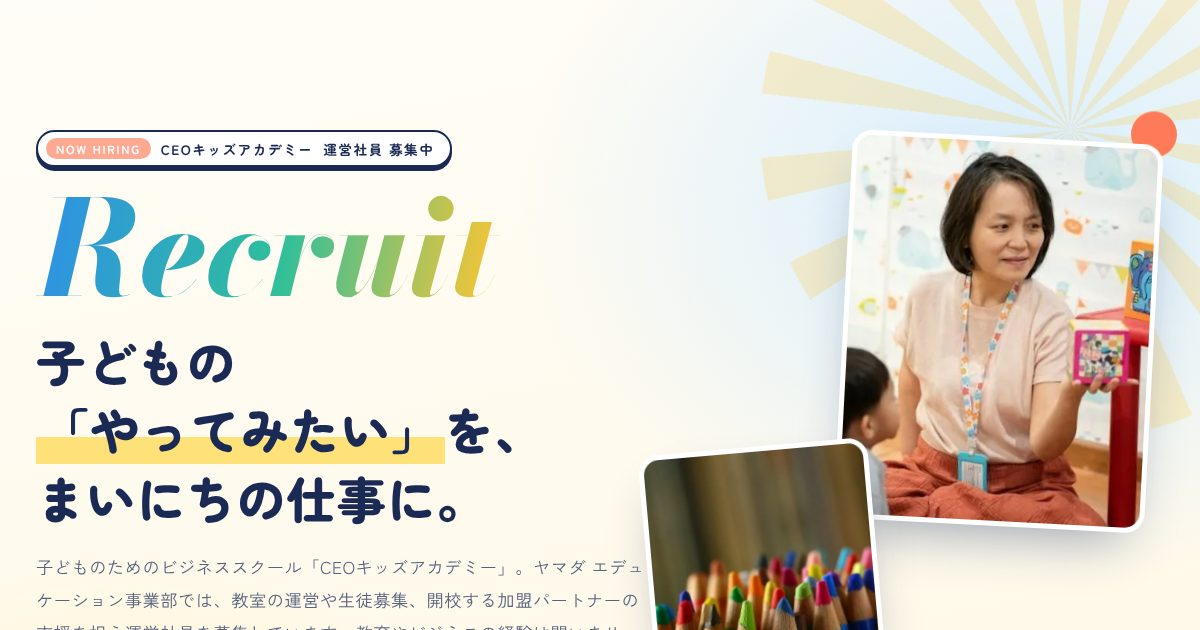
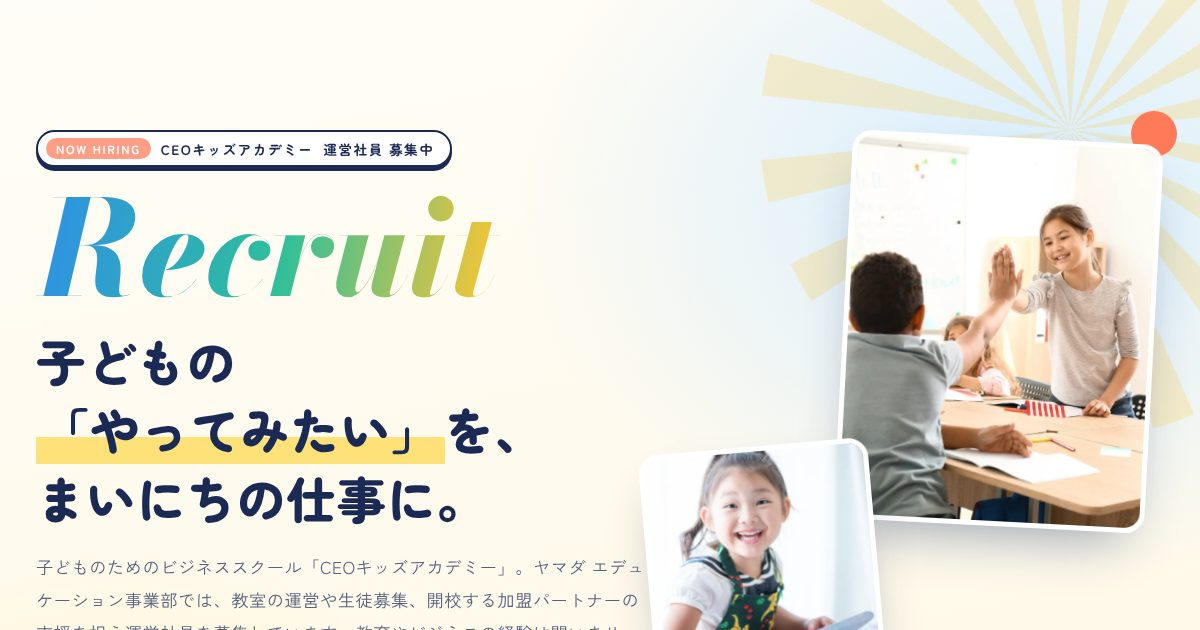
募集条件を反映、写真をCEOキッズ公式の写真に差し替え（重複なし）
- 雇用形態・月給25万〜50万円・勤務地阿佐ヶ谷・1日8時間＋固定残業月30時間・年間休日115日・社保・交通費・経験者優遇・試用期間3ヶ月
- JobPosting に給与・雇用形態・応募資格を追加
- 女性講師の写真を廃止し、採用ページ内で同じ写真を使わない配置に変更

Claude-Session: https://claude.ai/code/session_01Mt2r6HDPZRVGmky1JAwntv

Changed region(s): [[0.5242, 0.2111, 0.9867, 1.0]]

diff --git a/recruit/index.html b/recruit/index.html
@@ -201,15 +201,15 @@
         <a class="btn" href="#positions">募集職種を見る</a>
       </div>
       <ul class="tags" aria-label="募集している仕事">
-        <li>教室運営・講師</li><li>生徒募集・イベント</li><li>加盟校の開校サポート</li><li>事務局・保護者対応</li><li class="hot">未経験・子育て経験者歓迎</li>
+        <li>教室運営・講師</li><li>生徒募集・イベント</li><li>加盟校の開校サポート</li><li>事務局・保護者対応</li><li>月給25万〜50万円</li><li>年間休日115日</li><li class="hot">未経験・子育て経験者歓迎</li>
       </ul>
     </div>
   </div>
   <div class="hero-ph" aria-hidden="true">
     <span class="blob b1"></span><span class="blob b2"></span><span class="blob b3"></span>
-    <figure class="p1"><img src="../img/teacher.webp" alt="" fetchpriority="high"></figure>
-    <figure class="p2"><img src="../img/pencils.webp" alt=""></figure>
-    <figure class="p3"><img src="../img/study.webp" alt=""></figure>
+    <figure class="p1"><img src="../img/ck-classroom.webp" alt="" fetchpriority="high"></figure>
+    <figure class="p2"><img src="../img/ck-smile.webp" alt=""></figure>
+    <figure class="p3"><img src="../img/ck-chalk.webp" alt=""></figure>
   </div>
   <div class="marquee" aria-hidden="true"><div class="track">
     <span>WE ARE HIRING</span><span>教室運営</span><span>生徒募集</span><span>開校サポート</span><span>未経験から</span><span>WE ARE HIRING</span><span>教室運営</span><span>生徒募集</span><span>開校サポート</span><span>未経験から</span>
@@ -219,7 +219,7 @@
 <section class="sec" id="message"><span class="wm" aria-hidden="true">Message</span>
   <div class="wrap two">
     <div class="ph-stack rv">
-      <img src="../img/study.webp" alt="机に向かってノートに書き込む女の子" loading="lazy">
+      <img src="../img/ck-students.webp" alt="ボードゲームのような教材でビジネスを学ぶ学生たち" loading="lazy">
       <img src="../img/hero.webp" alt="コインの山から伸びる若芽" loading="lazy">
     </div>
     <div class="msg rv d1">
@@ -300,7 +300,7 @@
 <section class="sec skybg" id="day"><span class="wm r" aria-hidden="true">One day</span>
   <div class="wrap two rev">
     <div class="ph-one rv">
-      <img src="../img/teacher.webp" alt="子どもたちに教材を見せる女性の先生" loading="lazy">
+      <img src="../img/ck-staff.webp" alt="ノートパソコンで仕事をするスタッフ" loading="lazy">
       <p class="bubble">授業のあとの<br>「楽しかった！」が<br>いちばんのごほうび。</p>
     </div>
     <div class="rv d1">
@@ -313,7 +313,7 @@
         <li><time>15:30</time><div class="box"><b>授業</b><p>子どもたちが考えた商品やアイデアを全肯定で受け止めながら進行します。</p></div></li>
         <li><time>18:00</time><div class="box"><b>保護者対応・振り返り</b><p>お迎えの時間に今日の様子を伝え、日報で次回の改善点をまとめます。</p></div></li>
       </ol>
-      <p class="day-note">※ 時間は一例です。実際の勤務時間は <span class="ph">勤務時間を記入</span> です。</p>
+      <p class="day-note">※ 時間は一例です。勤務時間は1日8時間です。</p>
     </div>
   </div>
 </section>
@@ -332,8 +332,8 @@
       </ul>
     </div>
     <div class="ph-stack rv d1">
+      <img src="../img/ck-meeting.webp" alt="保護者と子どもと笑顔で話すスタッフ" loading="lazy">
       <img src="../img/pencils.webp" alt="色とりどりの色鉛筆" loading="lazy">
-      <img src="../img/teacher.webp" alt="子どもたちに教材を見せる女性の先生" loading="lazy">
     </div>
   </div>
 </section>
@@ -347,15 +347,15 @@
     </div>
     <dl class="terms rv">
       <dt>募集職種</dt><dd>教室運営・講師スタッフ／生徒募集・イベント企画／加盟パートナー開校サポート／事務局・オペレーション</dd>
-      <dt>雇用形態</dt><dd><span class="ph">正社員・契約社員・パート など</span></dd>
-      <dt>給与</dt><dd><span class="ph">月給 ○○万円〜○○万円（経験・能力を考慮）</span></dd>
-      <dt>勤務地</dt><dd><span class="ph">東京都杉並区阿佐谷南3-1-27 ほか教室</span></dd>
-      <dt>勤務時間</dt><dd><span class="ph">○:00〜○:00（休憩○分）／シフト制の有無</span></dd>
-      <dt>休日・休暇</dt><dd><span class="ph">週休○日・年間休日○日・有給休暇 など</span></dd>
-      <dt>待遇・福利厚生</dt><dd><span class="ph">社会保険完備・交通費支給・研修費会社負担 など</span></dd>
+      <dt>雇用形態</dt><dd>正社員・契約社員・アルバイト など</dd>
+      <dt>給与</dt><dd>月給 25万円〜50万円（経験・能力を考慮）</dd>
+      <dt>勤務地</dt><dd>阿佐ヶ谷（東京都杉並区）</dd>
+      <dt>勤務時間</dt><dd>1日8時間／固定残業制度あり（月30時間分・固定残業代 <span class="ph">○万円</span>）。30時間を超える残業代は別途支給します</dd>
+      <dt>休日・休暇</dt><dd>年間休日115日</dd>
+      <dt>待遇・福利厚生</dt><dd>社会保険完備・交通費支給</dd>
       <dt>研修</dt><dd>CEOキッズアカデミー本部の講師養成講座・模擬授業研修</dd>
-      <dt>応募資格</dt><dd>学歴・教育業界の経験は問いません。<span class="ph">必須条件（普通免許など）があれば記入</span></dd>
-      <dt>試用期間</dt><dd><span class="ph">○ヶ月（条件の変更有無）</span></dd>
+      <dt>応募資格</dt><dd>学歴・教育業界の経験は問いません。教室運営、カリキュラム制作などの経験者優遇</dd>
+      <dt>試用期間</dt><dd>3ヶ月</dd>
     </dl>
   </div>
 </section>

diff --git a/recruit/jobs/partner.html b/recruit/jobs/partner.html
@@ -49,6 +49,22 @@
  "industry": "教育",
  "occupationalCategory": "加盟パートナー開校サポート",
  "directApply": false,
+ "employmentType": [
+  "FULL_TIME",
+  "TEMPORARY",
+  "PART_TIME"
+ ],
+ "baseSalary": {
+  "@type": "MonetaryAmount",
+  "currency": "JPY",
+  "value": {
+   "@type": "QuantitativeValue",
+   "minValue": 250000,
+   "maxValue": 500000,
+   "unitText": "MONTH"
+  }
+ },
+ "qualifications": "学歴・教育業界の経験は問いません。教室運営、カリキュラム制作などの経験者優遇。",
  "url": "https://livmakers.github.io/yamada-edu-hp/recruit/jobs/partner.html"
 }
 </script>
@@ -102,7 +118,8 @@
       <dt>仕事内容</dt><dd><ul><li>加盟を検討する方からの問い合わせ対応と個別のご案内</li><li>開校までの準備（研修日程・教材・集客）の進行管理</li><li>開校後の定期面談、運営の相談窓口</li><li>各教室の好事例を集めて共有する仕組みづくり</li></ul></dd>
       <dt>あると活きる経験</dt><dd>フランチャイズ本部のSV、法人営業、店舗・教室の運営管理の経験</dd>
       <dt>向いている方</dt><dd><ul><li>相手の目標を自分ごととして応援できる方</li><li>段取りを組み、期限までに物事を進められる方</li><li>教室をひとつの事業として見られる方</li></ul></dd>
-      <dt>雇用形態</dt><dd><span class="ph">正社員・契約社員・パート など</span></dd><dt>給与</dt><dd><span class="ph">月給 ○○万円〜○○万円（経験・能力を考慮）</span></dd><dt>勤務地</dt><dd><span class="ph">東京都杉並区阿佐谷南3-1-27 ほか教室</span></dd><dt>勤務時間</dt><dd><span class="ph">○:00〜○:00（休憩○分）／シフト制の有無</span></dd><dt>休日・休暇</dt><dd><span class="ph">週休○日・年間休日○日・有給休暇 など</span></dd><dt>待遇・福利厚生</dt><dd><span class="ph">社会保険完備・交通費支給・研修費会社負担 など</span></dd><dt>研修</dt><dd>CEOキッズアカデミー本部の講師養成講座・模擬授業研修</dd><dt>試用期間</dt><dd><span class="ph">○ヶ月（条件の変更有無）</span></dd>
+      <dt>雇用形態</dt><dd>正社員・契約社員・アルバイト など</dd><dt>給与</dt><dd>月給 25万円〜50万円（経験・能力を考慮）</dd><dt>勤務地</dt><dd>阿佐ヶ谷（東京都杉並区）</dd><dt>勤務時間</dt><dd>1日8時間／固定残業制度あり（月30時間分・固定残業代 <span class="ph">○万円</span>）。30時間を超える残業代は別途支給します</dd><dt>休日・休暇</dt><dd>年間休日115日</dd><dt>待遇・福利厚生</dt><dd>社会保険完備・交通費支給</dd><dt>研修</dt><dd>CEOキッズアカデミー本部の講師養成講座・模擬授業研修</dd><dt>試用期間</dt><dd>3ヶ月</dd>
+      <dt>応募資格</dt><dd>学歴・教育業界の経験は問いません。教室運営、カリキュラム制作などの経験者優遇</dd>
     </dl></div></div>
     <p class="jcta"><a class="btn sun" href="../?job=partner#entry">この職種に応募する <span class="arw">→</span></a></p>
     <h2 class="jother">ほかの募集職種</h2>

diff --git a/recruit/jobs/marketing.html b/recruit/jobs/marketing.html
@@ -49,6 +49,22 @@
  "industry": "教育",
  "occupationalCategory": "生徒募集・イベント企画",
  "directApply": false,
+ "employmentType": [
+  "FULL_TIME",
+  "TEMPORARY",
+  "PART_TIME"
+ ],
+ "baseSalary": {
+  "@type": "MonetaryAmount",
+  "currency": "JPY",
+  "value": {
+   "@type": "QuantitativeValue",
+   "minValue": 250000,
+   "maxValue": 500000,
+   "unitText": "MONTH"
+  }
+ },
+ "qualifications": "学歴・教育業界の経験は問いません。教室運営、カリキュラム制作などの経験者優遇。",
  "url": "https://livmakers.github.io/yamada-edu-hp/recruit/jobs/marketing.html"
 }
 </script>
@@ -102,7 +118,8 @@
       <dt>仕事内容</dt><dd><ul><li>体験会・親子イベント・ワークショップの企画と集客</li><li>Instagram・LINEなどSNSの発信、チラシ・ポスターの制作手配</li><li>問い合わせから体験、入会までの数字の管理と改善</li><li>学校・企業・商業施設との連携イベントの調整</li></ul></dd>
       <dt>あると活きる経験</dt><dd>販促・広報・SNS運用、イベント運営、営業の経験</dd>
       <dt>向いている方</dt><dd><ul><li>数字を見て次の一手を考えるのが好きな方</li><li>企画を形にして、人を集めた経験がある方</li><li>地域の学校や企業とつながりをつくれる方</li></ul></dd>
-      <dt>雇用形態</dt><dd><span class="ph">正社員・契約社員・パート など</span></dd><dt>給与</dt><dd><span class="ph">月給 ○○万円〜○○万円（経験・能力を考慮）</span></dd><dt>勤務地</dt><dd><span class="ph">東京都杉並区阿佐谷南3-1-27 ほか教室</span></dd><dt>勤務時間</dt><dd><span class="ph">○:00〜○:00（休憩○分）／シフト制の有無</span></dd><dt>休日・休暇</dt><dd><span class="ph">週休○日・年間休日○日・有給休暇 など</span></dd><dt>待遇・福利厚生</dt><dd><span class="ph">社会保険完備・交通費支給・研修費会社負担 など</span></dd><dt>研修</dt><dd>CEOキッズアカデミー本部の講師養成講座・模擬授業研修</dd><dt>試用期間</dt><dd><span class="ph">○ヶ月（条件の変更有無）</span></dd>
+      <dt>雇用形態</dt><dd>正社員・契約社員・アルバイト など</dd><dt>給与</dt><dd>月給 25万円〜50万円（経験・能力を考慮）</dd><dt>勤務地</dt><dd>阿佐ヶ谷（東京都杉並区）</dd><dt>勤務時間</dt><dd>1日8時間／固定残業制度あり（月30時間分・固定残業代 <span class="ph">○万円</span>）。30時間を超える残業代は別途支給します</dd><dt>休日・休暇</dt><dd>年間休日115日</dd><dt>待遇・福利厚生</dt><dd>社会保険完備・交通費支給</dd><dt>研修</dt><dd>CEOキッズアカデミー本部の講師養成講座・模擬授業研修</dd><dt>試用期間</dt><dd>3ヶ月</dd>
+      <dt>応募資格</dt><dd>学歴・教育業界の経験は問いません。教室運営、カリキュラム制作などの経験者優遇</dd>
     </dl></div></div>
     <p class="jcta"><a class="btn sun" href="../?job=marketing#entry">この職種に応募する <span class="arw">→</span></a></p>
     <h2 class="jother">ほかの募集職種</h2>

diff --git a/recruit/jobs/office.html b/recruit/jobs/office.html
@@ -53,6 +53,22 @@
   "monthsOfExperience": 0
  },
  "directApply": false,
+ "employmentType": [
+  "FULL_TIME",
+  "TEMPORARY",
+  "PART_TIME"
+ ],
+ "baseSalary": {
+  "@type": "MonetaryAmount",
+  "currency": "JPY",
+  "value": {
+   "@type": "QuantitativeValue",
+   "minValue": 250000,
+   "maxValue": 500000,
+   "unitText": "MONTH"
+  }
+ },
+ "qualifications": "学歴・教育業界の経験は問いません。教室運営、カリキュラム制作などの経験者優遇。",
  "url": "https://livmakers.github.io/yamada-edu-hp/recruit/jobs/office.html"
 }
 </script>
@@ -106,7 +122,8 @@
       <dt>仕事内容</dt><dd><ul><li>受講申込・体験予約・入金の確認と管理</li><li>授業・研修・イベントのスケジュール調整</li><li>保護者や加盟パートナーからのメール・電話対応</li><li>手作業の多い業務を、マニュアル化・自動化していく改善</li></ul></dd>
       <dt>あると活きる経験</dt><dd>事務、受付、カスタマーサポートの経験。Excel・Googleスプレッドシートの基本操作</dd>
       <dt>向いている方</dt><dd><ul><li>正確さと丁寧さを大切にできる方</li><li>同じ作業を「もっと楽にできないか」と考えられる方</li><li>電話やメールで気持ちよく対応できる方</li></ul></dd>
-      <dt>雇用形態</dt><dd><span class="ph">正社員・契約社員・パート など</span></dd><dt>給与</dt><dd><span class="ph">月給 ○○万円〜○○万円（経験・能力を考慮）</span></dd><dt>勤務地</dt><dd><span class="ph">東京都杉並区阿佐谷南3-1-27 ほか教室</span></dd><dt>勤務時間</dt><dd><span class="ph">○:00〜○:00（休憩○分）／シフト制の有無</span></dd><dt>休日・休暇</dt><dd><span class="ph">週休○日・年間休日○日・有給休暇 など</span></dd><dt>待遇・福利厚生</dt><dd><span class="ph">社会保険完備・交通費支給・研修費会社負担 など</span></dd><dt>研修</dt><dd>CEOキッズアカデミー本部の講師養成講座・模擬授業研修</dd><dt>試用期間</dt><dd><span class="ph">○ヶ月（条件の変更有無）</span></dd>
+      <dt>雇用形態</dt><dd>正社員・契約社員・アルバイト など</dd><dt>給与</dt><dd>月給 25万円〜50万円（経験・能力を考慮）</dd><dt>勤務地</dt><dd>阿佐ヶ谷（東京都杉並区）</dd><dt>勤務時間</dt><dd>1日8時間／固定残業制度あり（月30時間分・固定残業代 <span class="ph">○万円</span>）。30時間を超える残業代は別途支給します</dd><dt>休日・休暇</dt><dd>年間休日115日</dd><dt>待遇・福利厚生</dt><dd>社会保険完備・交通費支給</dd><dt>研修</dt><dd>CEOキッズアカデミー本部の講師養成講座・模擬授業研修</dd><dt>試用期間</dt><dd>3ヶ月</dd>
+      <dt>応募資格</dt><dd>学歴・教育業界の経験は問いません。教室運営、カリキュラム制作などの経験者優遇</dd>
     </dl></div></div>
     <p class="jcta"><a class="btn sun" href="../?job=office#entry">この職種に応募する <span class="arw">→</span></a></p>
     <h2 class="jother">ほかの募集職種</h2>

diff --git a/recruit/jobs/classroom.html b/recruit/jobs/classroom.html
@@ -53,6 +53,22 @@
   "monthsOfExperience": 0
  },
  "directApply": false,
+ "employmentType": [
+  "FULL_TIME",
+  "TEMPORARY",
+  "PART_TIME"
+ ],
+ "baseSalary": {
+  "@type": "MonetaryAmount",
+  "currency": "JPY",
+  "value": {
+   "@type": "QuantitativeValue",
+   "minValue": 250000,
+   "maxValue": 500000,
+   "unitText": "MONTH"
+  }
+ },
+ "qualifications": "学歴・教育業界の経験は問いません。教室運営、カリキュラム制作などの経験者優遇。",
  "url": "https://livmakers.github.io/yamada-edu-hp/recruit/jobs/classroom.html"
 }
 </script>
@@ -106,7 +122,8 @@
       <dt>仕事内容</dt><dd><ul><li>CEOキッズアカデミーの授業の準備と進行（本部カリキュラムに沿って実施）</li><li>体験会・説明会の運営</li><li>保護者への連絡、面談、受講の相談対応</li><li>教室の出欠・受講データの管理</li></ul></dd>
       <dt>あると活きる経験</dt><dd>子育て、塾・習い事・保育などでの子どもと関わる経験、接客や営業の経験</dd>
       <dt>向いている方</dt><dd><ul><li>子どもの意見を、まず「いいね」と受け止められる方</li><li>人前で話すことや、場を盛り上げることが好きな方</li><li>自分もお金やビジネスを学びたい方</li></ul></dd>
-      <dt>雇用形態</dt><dd><span class="ph">正社員・契約社員・パート など</span></dd><dt>給与</dt><dd><span class="ph">月給 ○○万円〜○○万円（経験・能力を考慮）</span></dd><dt>勤務地</dt><dd><span class="ph">東京都杉並区阿佐谷南3-1-27 ほか教室</span></dd><dt>勤務時間</dt><dd><span class="ph">○:00〜○:00（休憩○分）／シフト制の有無</span></dd><dt>休日・休暇</dt><dd><span class="ph">週休○日・年間休日○日・有給休暇 など</span></dd><dt>待遇・福利厚生</dt><dd><span class="ph">社会保険完備・交通費支給・研修費会社負担 など</span></dd><dt>研修</dt><dd>CEOキッズアカデミー本部の講師養成講座・模擬授業研修</dd><dt>試用期間</dt><dd><span class="ph">○ヶ月（条件の変更有無）</span></dd>
+      <dt>雇用形態</dt><dd>正社員・契約社員・アルバイト など</dd><dt>給与</dt><dd>月給 25万円〜50万円（経験・能力を考慮）</dd><dt>勤務地</dt><dd>阿佐ヶ谷（東京都杉並区）</dd><dt>勤務時間</dt><dd>1日8時間／固定残業制度あり（月30時間分・固定残業代 <span class="ph">○万円</span>）。30時間を超える残業代は別途支給します</dd><dt>休日・休暇</dt><dd>年間休日115日</dd><dt>待遇・福利厚生</dt><dd>社会保険完備・交通費支給</dd><dt>研修</dt><dd>CEOキッズアカデミー本部の講師養成講座・模擬授業研修</dd><dt>試用期間</dt><dd>3ヶ月</dd>
+      <dt>応募資格</dt><dd>学歴・教育業界の経験は問いません。教室運営、カリキュラム制作などの経験者優遇</dd>
     </dl></div></div>
     <p class="jcta"><a class="btn sun" href="../?job=classroom#entry">この職種に応募する <span class="arw">→</span></a></p>
     <h2 class="jother">ほかの募集職種</h2>

diff --git a/index.html b/index.html
@@ -553,7 +553,7 @@ footer .legal{grid-column:1/-1;font-size:.74rem;border-top:1px solid var(--line)
           <div class="pat"><span class="no">3</span><div><p class="who">教育事業者・法人の方</p><h3>本格的な事業展開</h3><p>複数校舎での展開や、法人ビジネスとしての導入に対応します。</p></div></div>
         </div>
       </div>
-      <div class="photo-frame rv d1"><div class="photo"><img src="img/teacher.webp" alt="子どもたちに教材を見せる女性の先生" loading="lazy"><span class="cap">未経験からでも、先生になれる。</span></div></div>
+      <div class="photo-frame rv d1"><div class="photo"><img src="img/ck-laptopgirl.webp" alt="ヘッドセットをつけてパソコンで学ぶ女の子" loading="lazy"><span class="cap">オンラインでも、教室を開ける。</span></div></div>
     </div>
   </div>
 </section>
